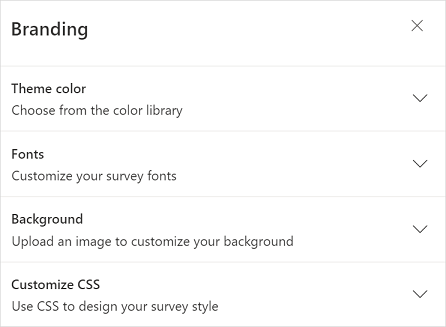
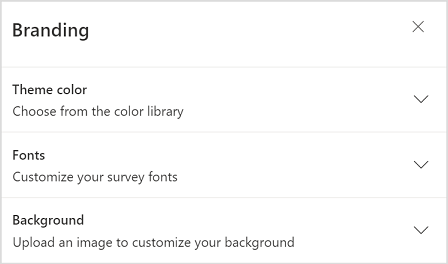
update

diff --git a/cv-docs/survey-branding.md b/cv-docs/survey-branding.md
@@ -12,7 +12,7 @@ manager: shujoshi
 
 # Add branding to a survey
 
-You can customize the appearance of your survey to match your company's branding. This includes changing the color, font, background image, or uploading a custom CSS file.
+You can customize the appearance of your survey to match your company's branding. This includes changing the color, font, or uploading a background image.
 
 **To add branding to a survey**
 
@@ -71,22 +71,6 @@ You can select a background image for the survey.
 - Expand the **Background** section, and then select **Remove**.
 
   ![Remove background image](media/remove-background-image.png "Remove background image")
-
-## Customize CSS
-
-You can change the look and feel of your survey beyond the available branding options by using a custom CSS file. You can either create a CSS file on your own and then upload it or download a sample CSS file, edit it, and then upload the file.
-
-**To download a sample CSS file**
-
-- Expand the **Customize CSS** section, and then select **Download sample CSS**.
-
-**To upload the CSS file**
-
-- Expand the **Customize CSS** section, and then select **Upload**.
-
-**To remove an existing CSS file**
-
-- Expand the **Customize CSS** section, and then select **Remove**.
 
 ### See also
 
